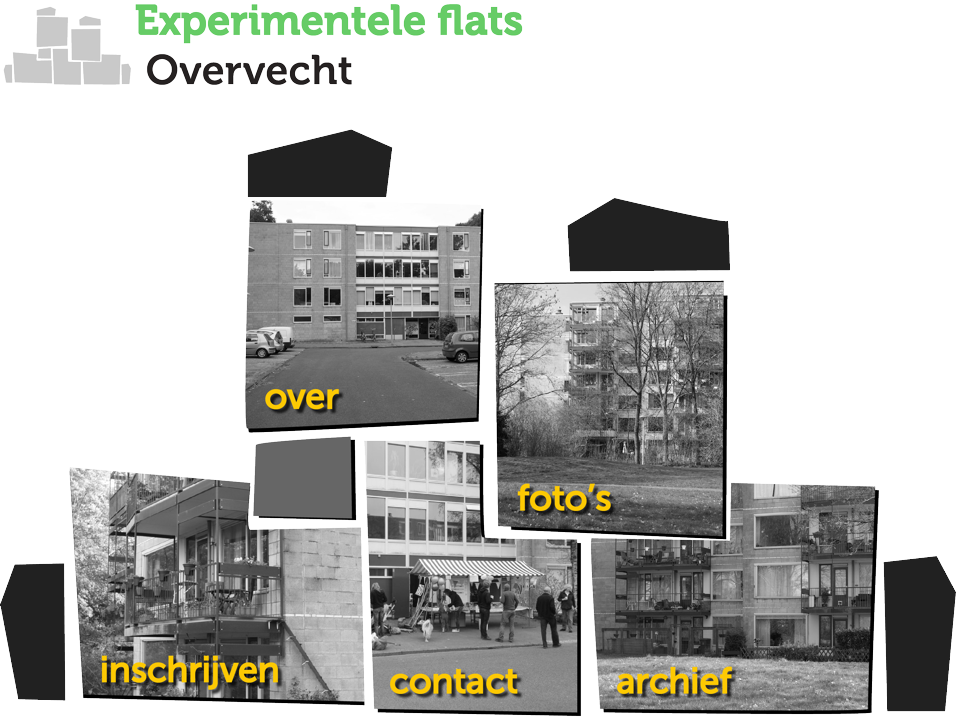
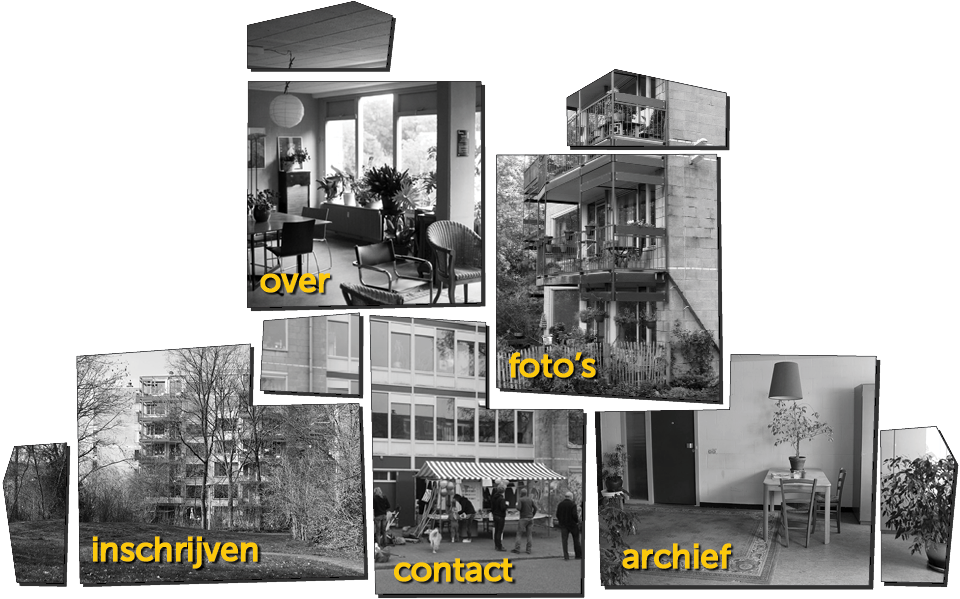
Update main page
Use new main image, fixed area coords.
Updated photos and use same shape as other logo.
Add coloured logo to main page.
Place text on the page, as styled text.

diff --git a/pages/index.html b/pages/index.html
@@ -1,16 +1,25 @@
 {% extends "main_base.html" %}
 
 {% block body %}
-    <div id="flat">
-        <img src="{% static '/static/images_index/index_960.png' %}"
-             width="960" height="720" usemap="#flat"
-             alt="Flat plattegrond, elke ruimte is link naar andere pagina">
-        <map name="flat">
-          <area shape="poly" coords="80,486,251,487,251,536,360,535,366,705,80,702" href="inschrijven.html" alt="Inschrijven">
-          <area shape="poly" coords="249,212,482,213,478,431,249,437" href="over.html" alt="Over">
-          <area shape="poly" coords="498,286,717,285,718,525,498,518" href="fotos.html" alt="Foto's">
-          <area shape="poly" coords="732,485,876,486,871,715,603,715,597,543,730,540" href="archief.html" alt="Archief">
-          <area shape="poly" coords="368,444,486,442,488,540,585,539,583,714,376,714" href="contact.html" alt="Contact">
-        </map>
-    </div>
+
+<img src="{% static '/static/images_index/logo.png' %}"
+     width="160px" id="logo">
+<span id="maintitle">Experimentele Flats</span><br>
+<span id="subtitle">Overvecht</span>
+
+<span class="clear"></span>
+
+<div id="flat">
+    <img src="{% static '/static/images_index/index_960.png' %}"
+         width="960" height="599" usemap="#flat"
+         alt="Flat plattegrond, elke ruimte is link naar andere pagina">
+    <map name="flat">
+      <area shape="poly" coords="79,358,251,345,251,408,360,405,366,580,80,581" href="inschrijven.html" alt="Inschrijven">
+      <area shape="poly" coords="249,82,481,82,483,307,249,311" href="over.html" alt="Over">
+      <area shape="poly" coords="498,155,717,155,721,403,498,390" href="fotos.html" alt="Foto's">
+      <area shape="poly" coords="732,355,876,358,871,588,603,588,597,413,730,411" href="archief.html" alt="Archief">
+      <area shape="poly" coords="370,316,487,322,488,412,585,410,583,592,376,592" href="contact.html" alt="Contact">
+    </map>
+</div>
+
 {% endblock %}

diff --git a/static/css/main.css b/static/css/main.css
@@ -4,3 +4,24 @@ body {
     width: 960px;
     background-color: #fcfcfc;
 }
+
+#maintitle {
+    color: #26a522;
+    font-family: Museo700Regular, serif;
+    font-size: 3em;
+    text-decoration: none;
+}
+
+#subtitle {
+    color: black;
+    font-family: Museo700Regular, serif;
+    font-size: 2.3em;
+    text-decoration: none;
+}
+
+#logo {
+    margin-right: 15px;
+    float: left;}
+
+#flat {
+    margin-top: 20px;}
